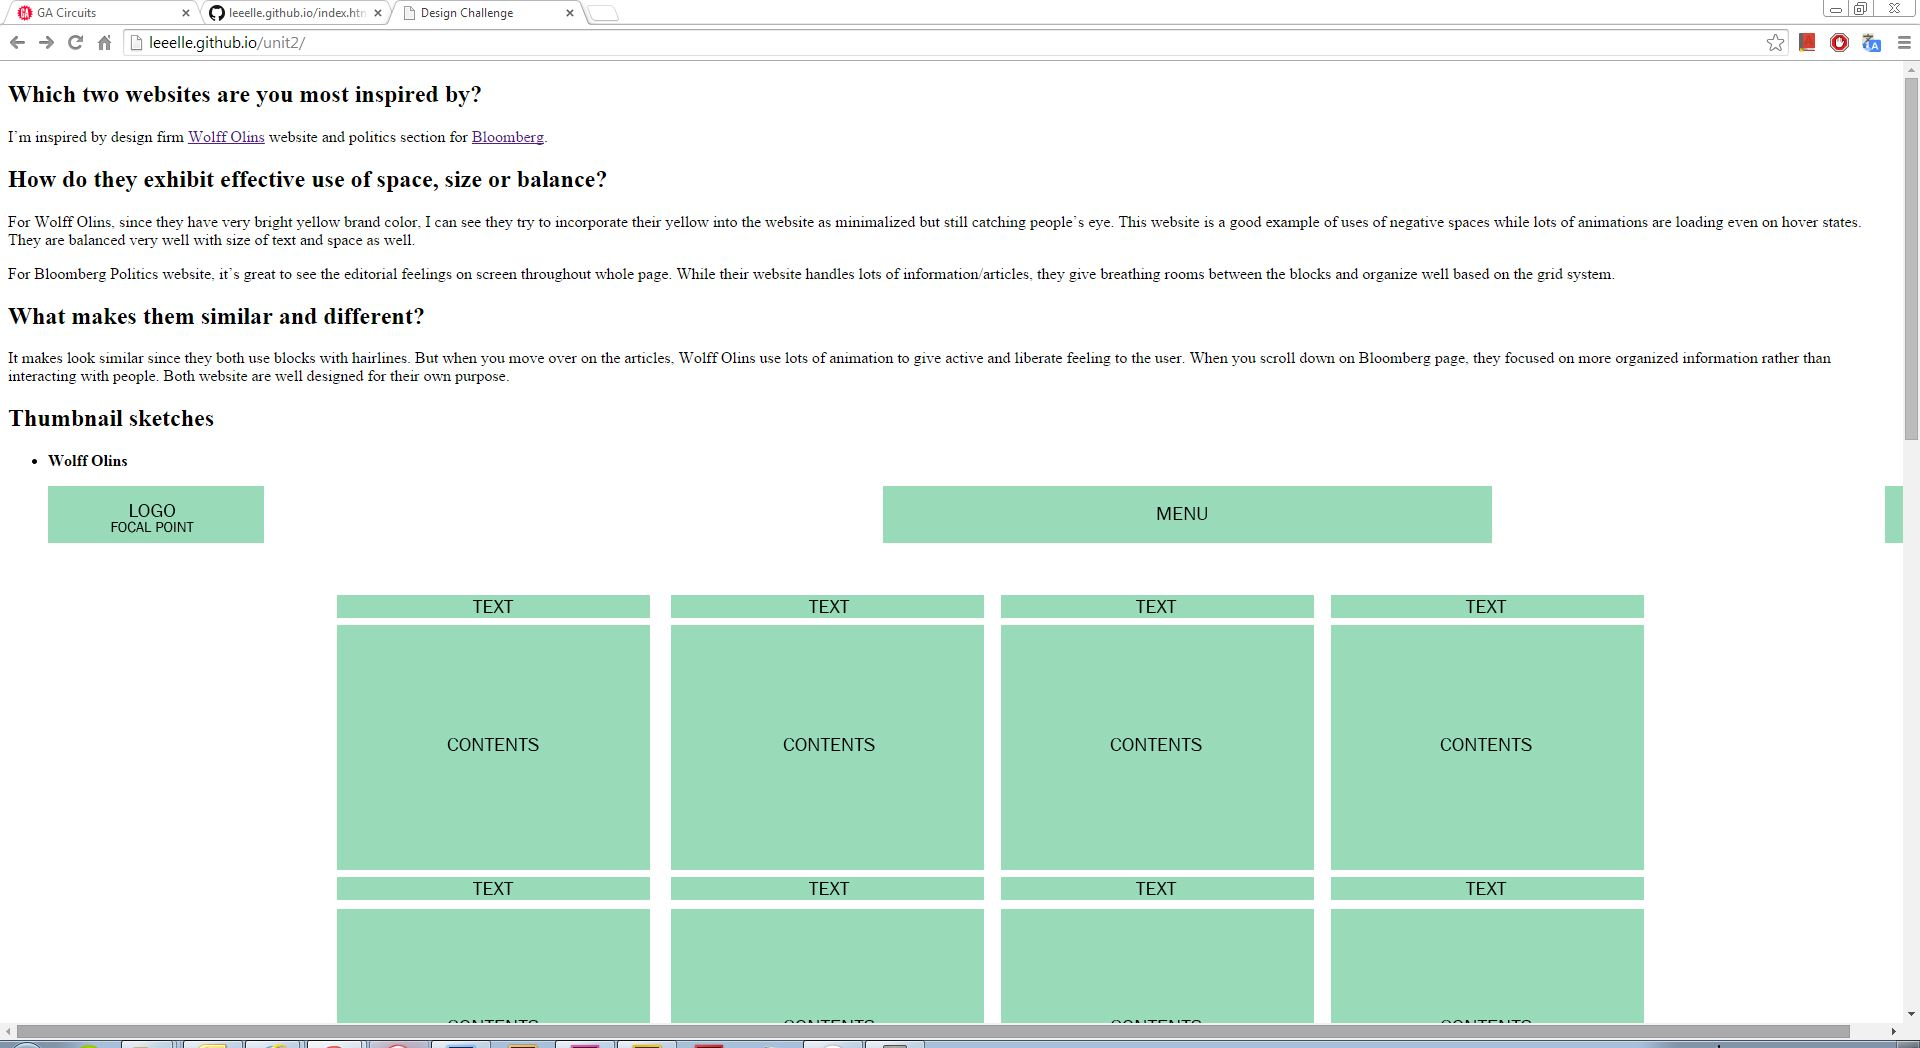
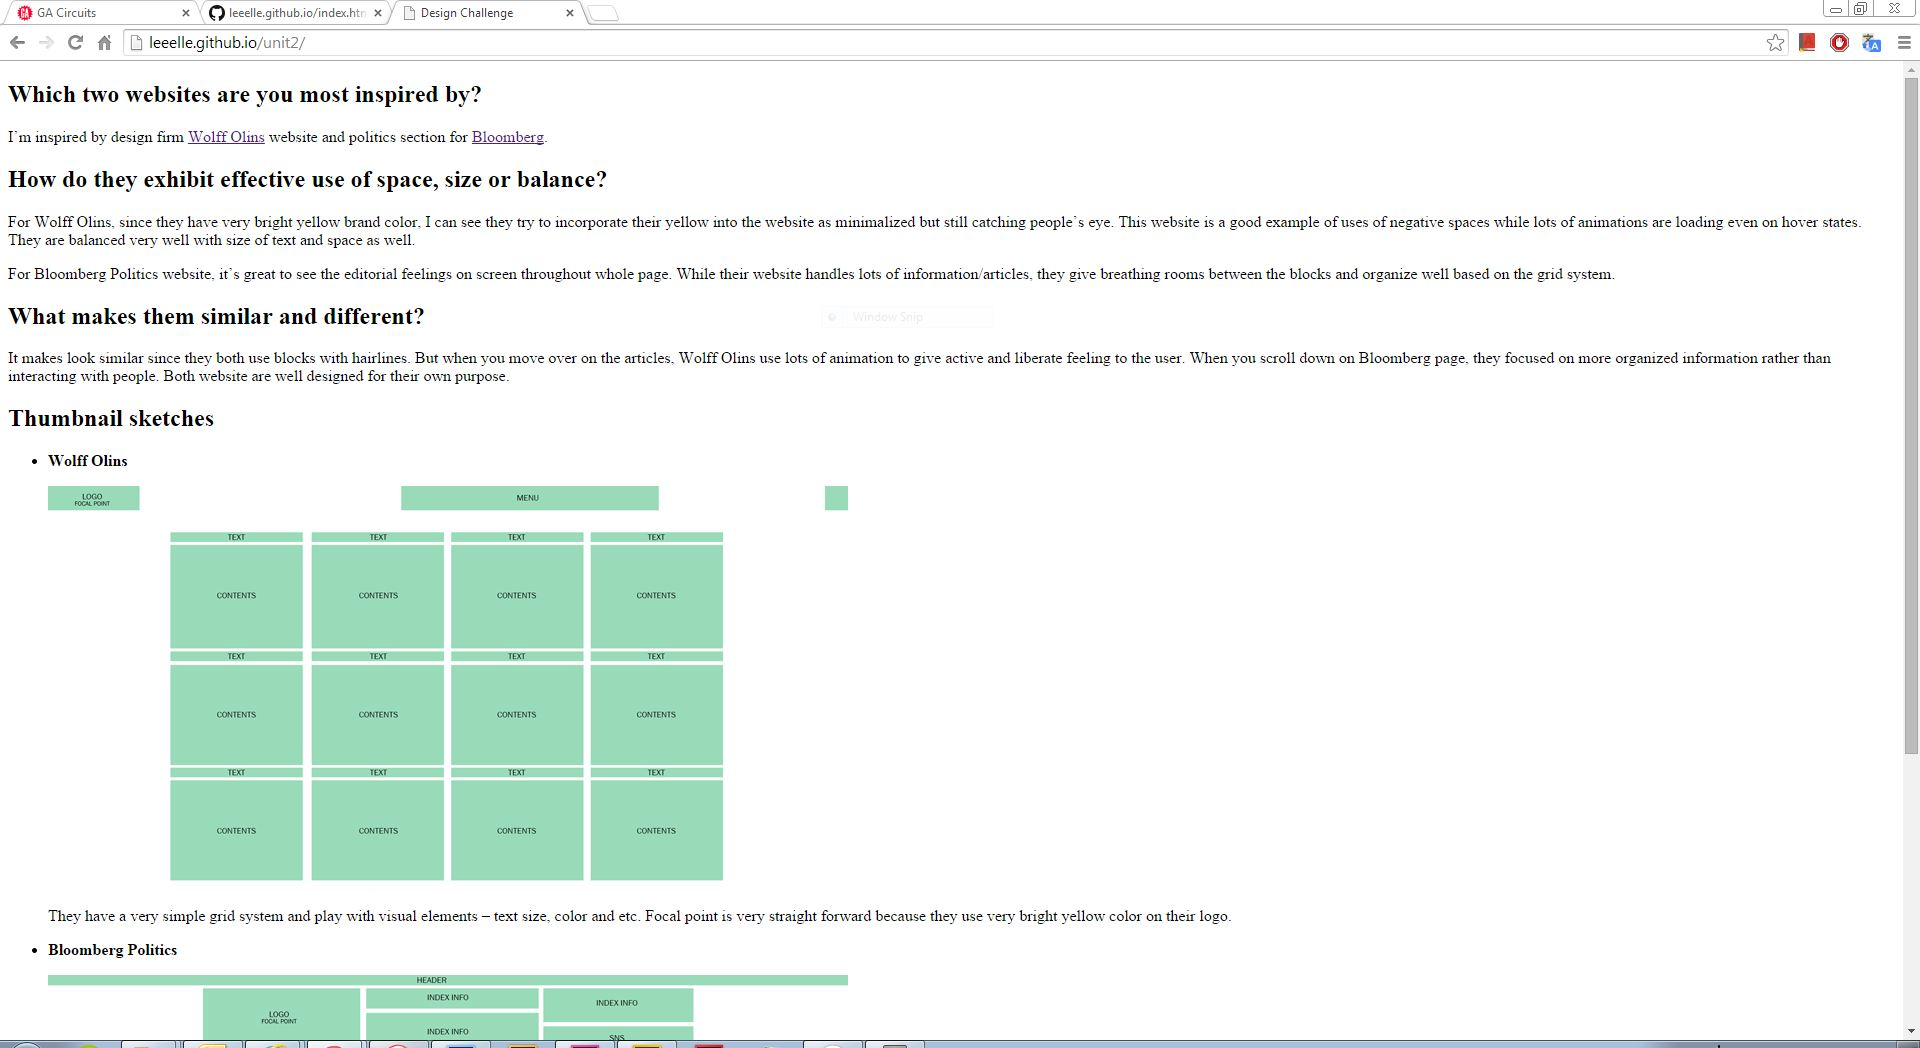
Sarah's feedback

Changed region(s): [[0.0, 0.458, 0.9688, 1.0], [0.4062, 0.458, 0.7812, 0.5191], [0.9688, 0.4275, 1.0, 0.7328]]

diff --git a/unit2/index.html b/unit2/index.html
@@ -8,13 +8,13 @@
 	<body>
 		<h2>Which two websites are you most inspired by?</h2>
 
-		<p>I’m inspired by design firm <a href="http://www.wolffolins.com/" target="_blank">Wolff Olins</a> website and politics section for <a href="http://www.bloomberg.com/politics/" target="_blank">Bloomberg</a>.</p>
+		<p>I'm inspired by design firm <a href="http://www.wolffolins.com/" target="_blank">Wolff Olins</a> website and politics section for <a href="http://www.bloomberg.com/politics/" target="_blank">Bloomberg</a>.</p>
 
 		<h2>How do they exhibit effective use of space, size or balance?</h2>
 
-		<p>For Wolff Olins, since they have very bright yellow brand color, I can see they try to incorporate their yellow into the website as minimalized but still catching people’s eye. This website is a good example of uses of negative spaces while lots of animations are loading even on hover states. They are balanced very well with size of text and space as well.</p>
+		<p>For Wolff Olins, since they have very bright yellow brand color, I can see they try to incorporate their yellow into the website as minimalized but still catching people's eye. This website is a good example of uses of negative spaces while lots of animations are loading even on hover states. They are balanced very well with size of text and space as well.</p>
 
-		<p>For Bloomberg Politics website, it’s great to see the editorial feelings on screen throughout whole page. While their website handles lots of information/articles, they give breathing rooms between the blocks and organize well based on the grid system.</p>
+		<p>For Bloomberg Politics website, it's great to see the editorial feelings on screen throughout whole page. While their website handles lots of information/articles, they give breathing rooms between the blocks and organize well based on the grid system.</p>
 
 		<h2>What makes them similar and different?</h2>
 
@@ -23,19 +23,23 @@
 		<h2>Thumbnail sketches</h2>
 
 		<ul>
-				<p>
+				
 				<li><strong>Wolff Olins</strong>
-				</p>
-				<img src="http://leeelle.github.io/unit2/wireframe_Wolffolins.jpg">
+				
+				<p><img src="http://leeelle.github.io/unit2/wireframe_Wolffolins.jpg"></p>
 
-				<p>They have a very simple grid system and play with visual elements – text size, color and etc. Focal point is very straight forward because they use very bright yellow color on their logo.</p>
+				<p>They have a very simple grid system and play with visual elements - text size, color and etc. Focal point is very straight forward because they use very bright yellow color on their logo.</p>
 
-				<p>
+				
+				</li>
+
 				<li><strong>Bloomberg Politics</strong>
-				</p>
-				<img src="http://leeelle.github.io/unit2/wireframe_Bloomberg.jpg">
+				
+				<p><img src="http://leeelle.github.io/unit2/wireframe_Bloomberg.jpg"></p>
 
-				<p>While they don’t use much color and size on the landing page, the logo could be given a power as a focal point. Each articles have different space according to the hierarchy.</p>
+				<p>While they don't use much color and size on the landing page, the logo could be given a power as a focal point. Each articles have different space according to the hierarchy.</p>
+				</li>
+		</ul>
 
 
 	</body>
